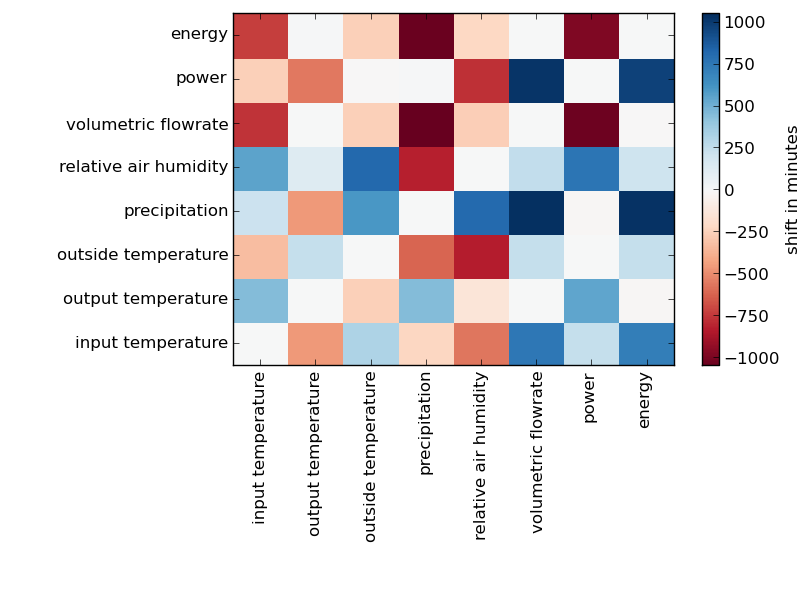
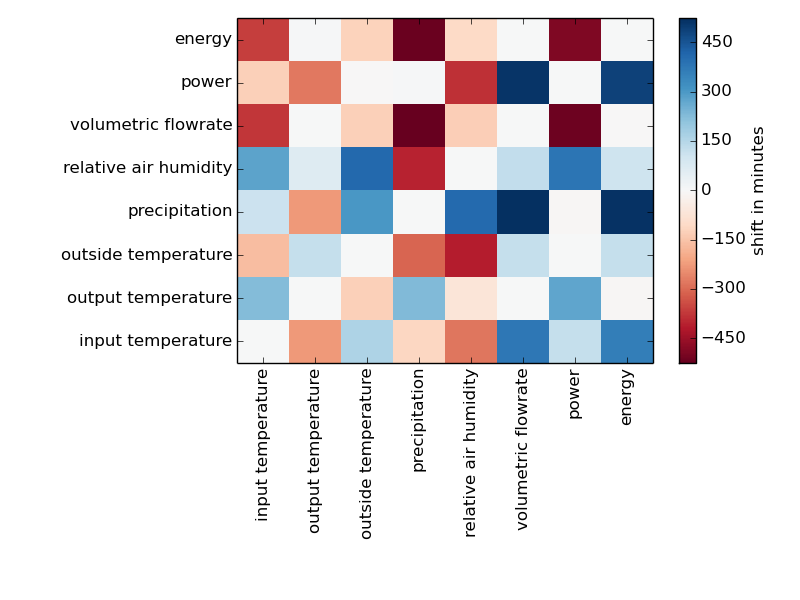
timeshift updated,frame visualisation added

diff --git a/reports/StatusReport03/StatusReport-Ali-Quignon-20150517.tex b/reports/StatusReport03/StatusReport-Ali-Quignon-20150517.tex
@@ -93,12 +93,12 @@ Remarkably those three groups have a meaning in the system. The first group cont
 As suggested in \cite{vafaeipour2014application} the sliding window approach was used to learn how to predict. In this approach the time series is split into windows or frames of input and output. Unlike in regression learning, those windows are shifted. Thus the learning algorithm does not learn the relation of the features at the same time, but their relation in the future. With this approach, it is possible to include all features as an input and select few of them as an output. This can be enhanced further by including predictable features into the input. These three methods are depicted in Figure \ref{fig:slidingwindow}.\\
 The random forest implementation we are using however can not handle input with more than one dimension. Thus we flatten the input to one dimension. Since the feature values are typically easily separable, we expect the random forest to recognize this flattening in an early step. We do not include this as an extra information into the trees.
 
-%\begin{figure}[H]
-%  \centering
-%  \includegraphics[width=0.5\linewidth]{../img/	}
-%  %\caption{}
-%  %\label{fig:slidingwindow}
-%\end{figure}
+\begin{figure}[H]
+  \centering
+    \includegraphics[width=0.5\linewidth]{img/regpred.png}
+  \caption{Input(green) and output(red) frames for regression(left), prediction(middle) and enhanced prediction(right).}
+  \label{fig:slidingwindow}
+\end{figure}
 %PUT UNITS ON THE FIGURES
 
 \section{Seasonal decomposition}

diff --git a/random_trees/timeshift_corellation.py b/random_trees/timeshift_corellation.py
@@ -42,7 +42,7 @@ for first in dayseasons.keys():
 
         #find abs max
         c = c/max(abs(c))
-        shift = c.shape[0]/2 - argmax(c)
+        shift = (c.shape[0]/2 - argmax(c))/2
 
         shifts[first][second] = shift
 
@@ -51,6 +51,7 @@ for first in dayseasons.keys():
         plot(dayseasons[first]/max(dayseasons[first]), color = "blue")
         plot(dayseasons[second]/max(dayseasons[second]), color = "green")
         xlim(0, c.shape[0])
+        tight_layout()
         savefig('../img/timeshift-' + helper.translate(first) + '-' + helper.translate(second) + '.png')
         # show()
         clf()
